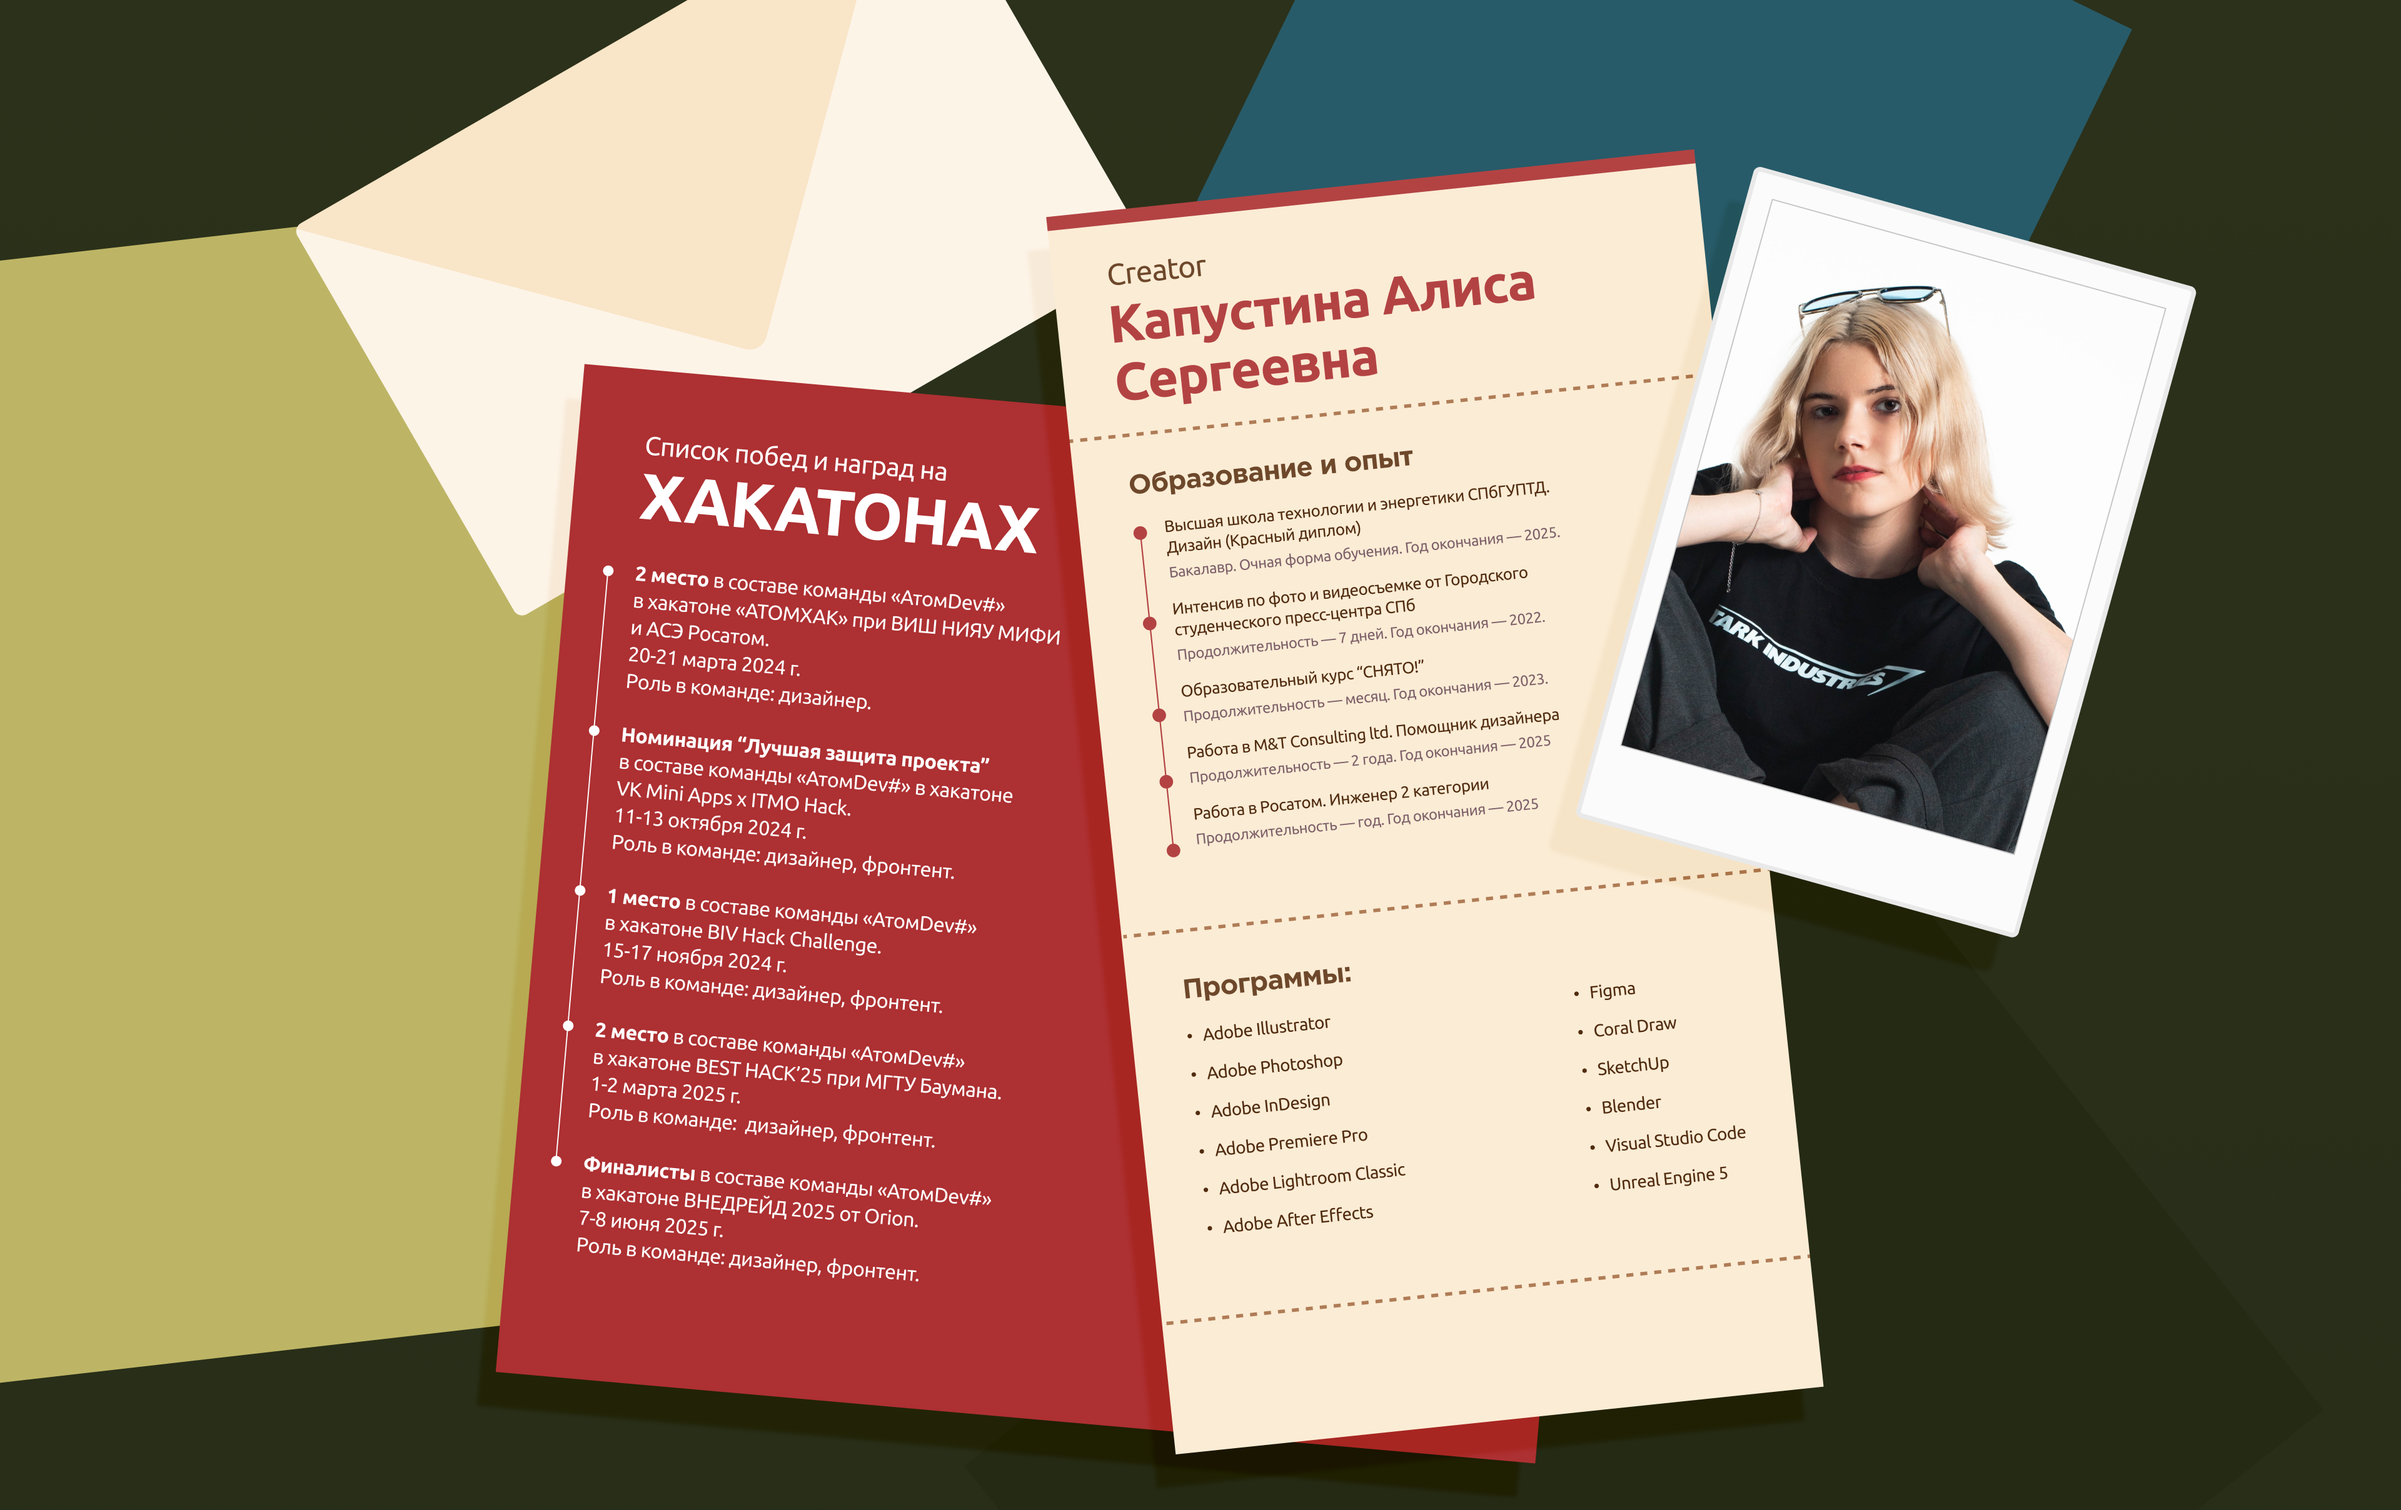
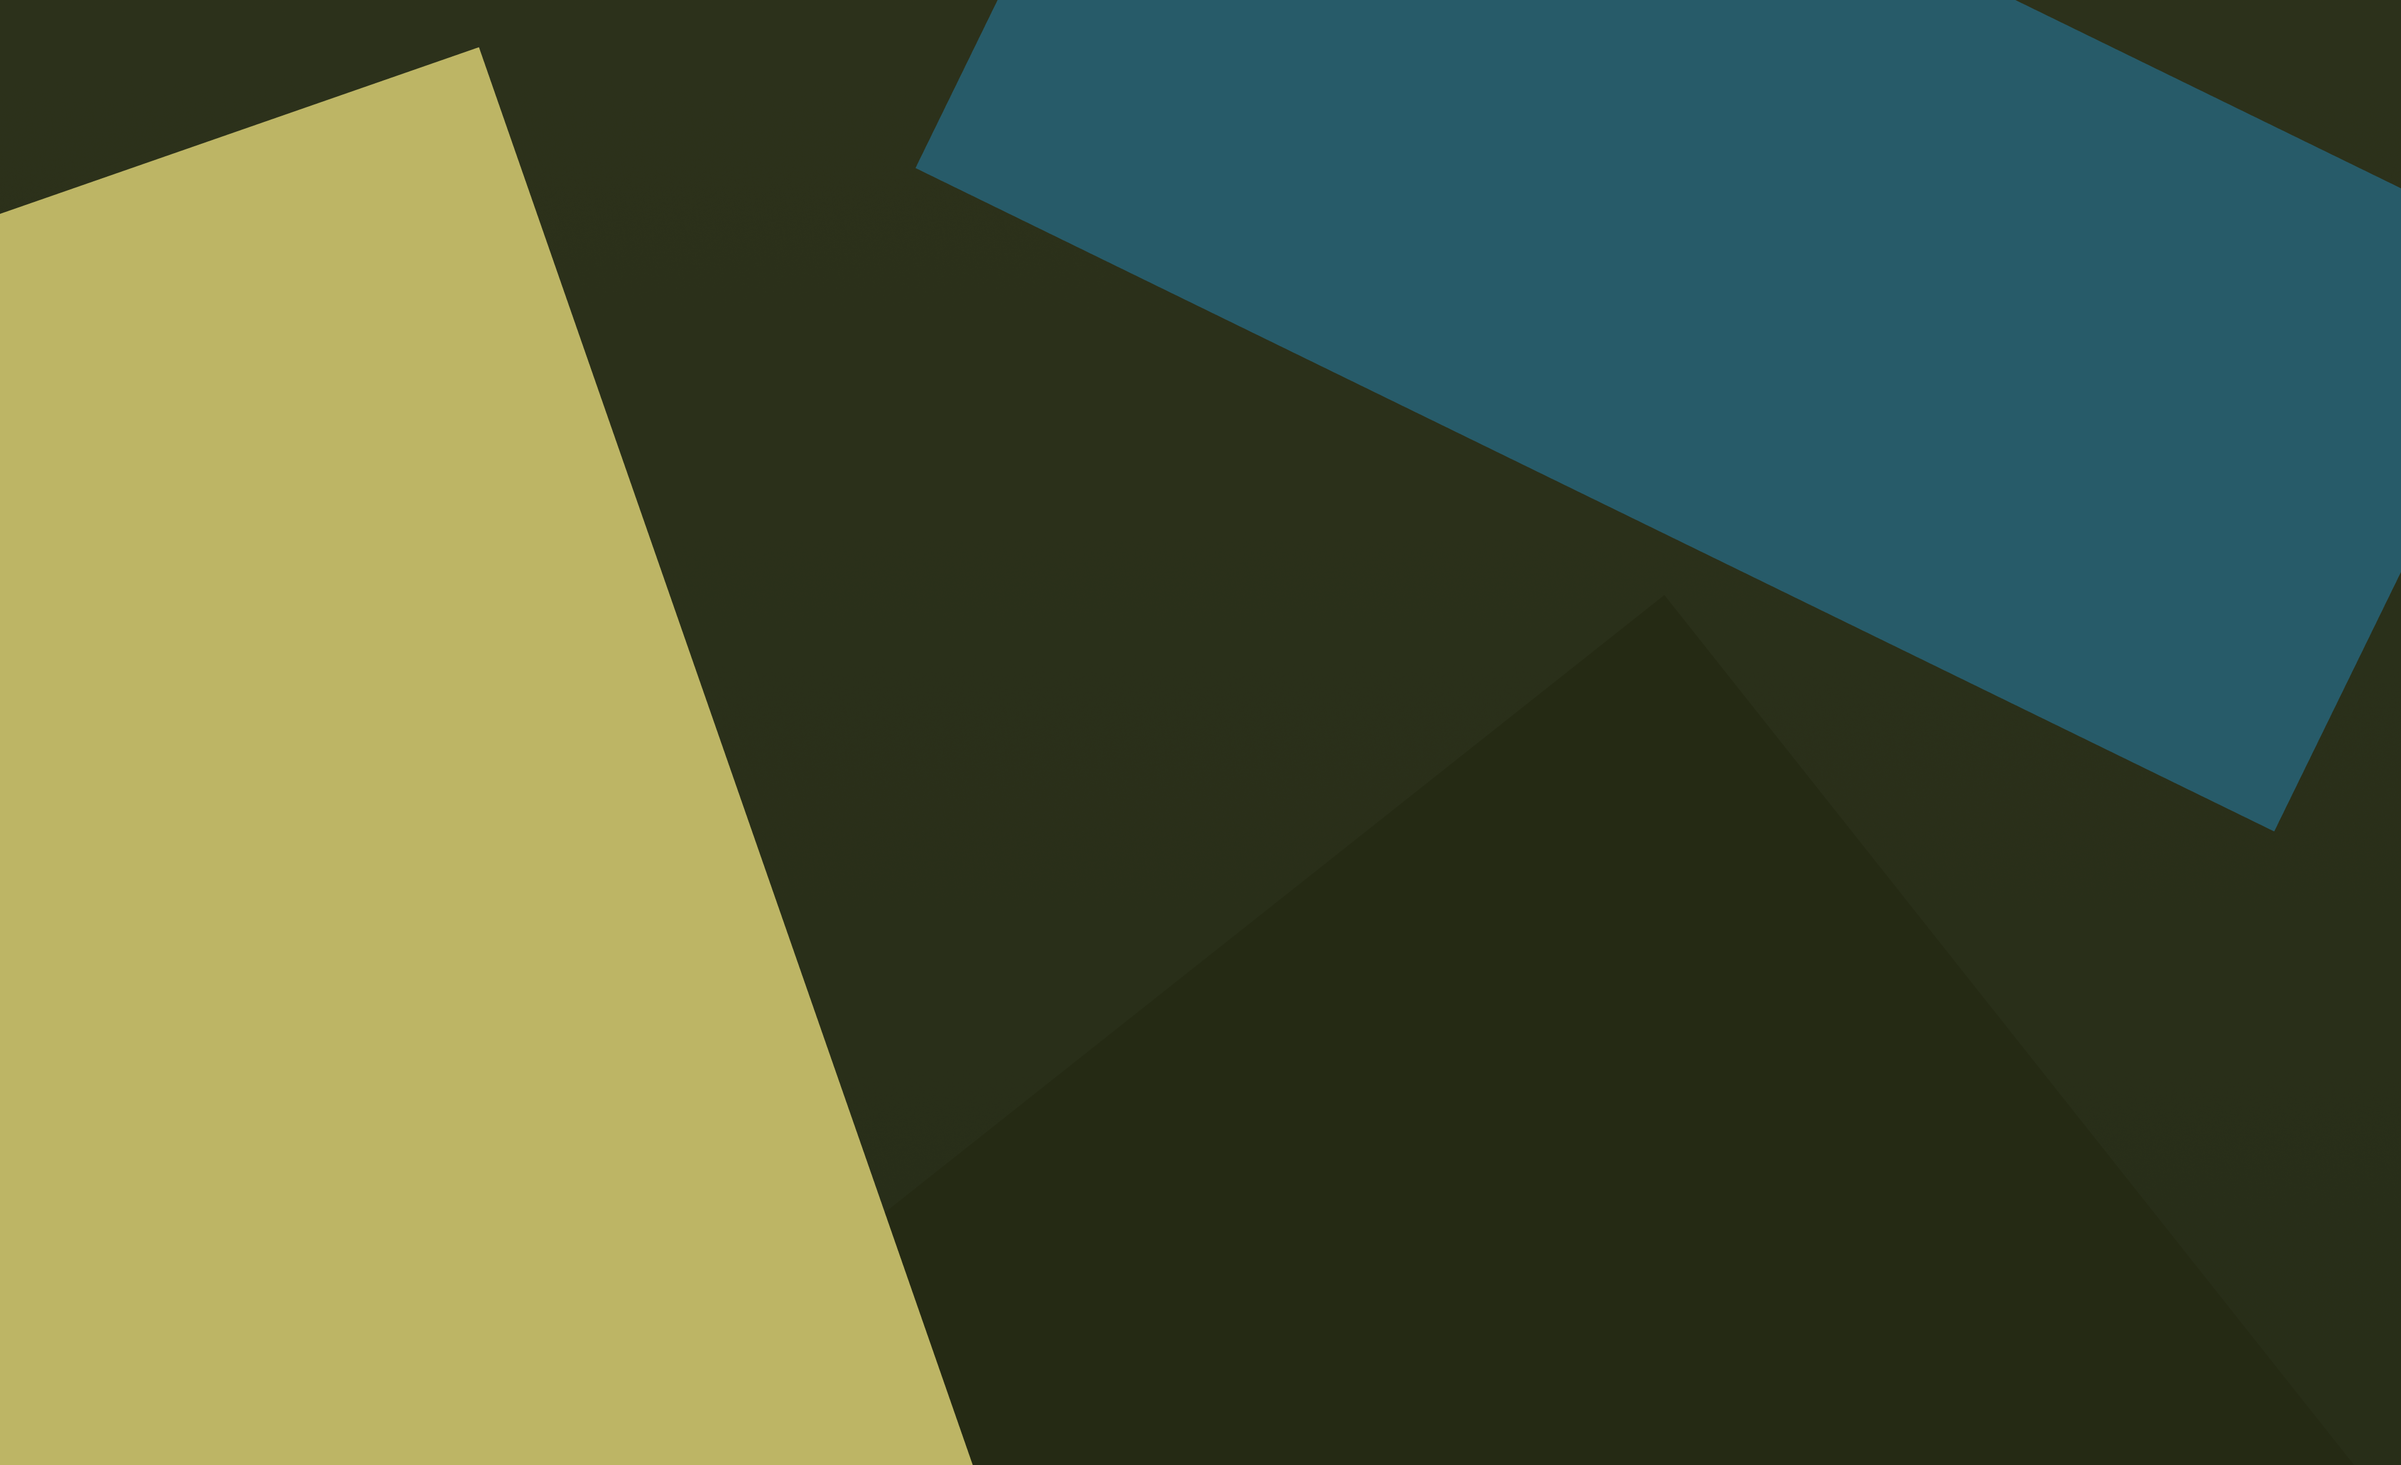
update: info

diff --git a/src/app/info/page.tsx b/src/app/info/page.tsx
@@ -3,13 +3,111 @@ import Sidebar from '@/components/Universal/Sidebar/Sidebar';
 import Text from '@/components/Universal/Text/Text';
 import '@fontsource/ubuntu';
 import  '@/app/info/info-page.scss'
+import RotatedCheck from "@/components/RotatedCheck/RotatedCheck";
 
 
 export default function InfoPage() {
 
     return (
         <div className="background-container">
-            {}
+            <img src='/images/info/mePhoto.png' alt="Card" />
+            <div style={{position: "relative", height: "100vh"}}>
+                <RotatedCheck
+                    angle={5.03}
+                    initialY={"100vh"}
+                    delay={0.2}
+                    backgroundColor="#AD3032"
+                    content={
+                        <>
+                            <h5>Список побед и наград на</h5>
+                            <h6>ХАКАТОНАХ </h6>
+                            <div className="list-block-hack">
+                                <p><b>2 место</b> в составе команды «АтомDev#» в хакатоне <br/>«АТОМХАК»
+                                    при ВИШ НИЯУ МИФИ и АСЭ Росатом.
+                                    <br/>20-21 марта 2024 г.
+                                    <br/>Роль в команде: дизайнер.</p>
+
+                                <p><b>Номинация “Лучшая защита проекта”</b>
+                                    в составе команды «АтомDev#» в хакатоне
+                                    VK Mini Apps х ITMO Hack.
+                                    <br/>11-13 октября 2024 г.
+                                    <br/>Роль в команде: дизайнер, фронтент.</p>
+
+                                <p><b>1 место</b> в составе команды «АтомDev#»
+                                    в хакатоне <br/> BIV Hack Challenge.
+                                    15-17 ноября 2024 г.
+                                    <br/>Роль в команде: дизайнер, фронтент.</p>
+
+                                <p><b>2 место</b> в составе команды «АтомDev#»
+                                    в хакатоне <br/>BEST HACK’25 при МГТУ Баумана.
+                                    1-2 марта 2025 г.
+                                    <br/>Роль в команде: дизайнер, фронтент.</p>
+
+                                <p><b>Финалисты</b> в составе команды «АтомDev#»
+                                    в хакатоне ВНЕДРЕЙД 2025 от Orion.
+                                    7-8 июня 2025 г.
+                                    <br/>Роль в команде: дизайнер, фронтент.</p>
+
+                            </div>
+                        </>
+                    }
+                    positionStyle={{top: "22%", left: "19%"}}
+                />
+
+                <RotatedCheck
+                    angle={-5.97}
+                    initialY={"120vh"}
+                    delay={0.3}
+                    backgroundColor="#FBECD5"
+                    content={
+                        <>
+                            <h2>Creator</h2>
+                            <h1>Капустина Алиса Сергеевна</h1>
+                            <h3>Образование и опыт</h3>
+                            <div className="list-block-educate">
+                                <h4>Высшая школа технологии и энергетики СПбГУПТД. Дизайн (Красный диплом)</h4>
+                                <p>Бакалавр. Очная форма обучения. Год окончания — 2025</p>
+
+                                <h4>Интенсив по фото и видеосъемке от Городского студенческого пресс-центра СПб</h4>
+                                <p>Продолжительность — 7 дней. Год окончания — 2022</p>
+
+                                <h4>Образовательный курс “СНЯТО!”</h4>
+                                <p>Продолжительность — месяц. Год окончания — 2023</p>
+
+                                <h4>Работа в M&T Consulting ltd. Помощник дизайнера</h4>
+                                <p>Продолжительность — 2 года. Год окончания — 2025</p>
+
+                                <h4>Работа в АСЭ Росатом. Инженер 2 категории</h4>
+                                <p>Продолжительность — год. Год окончания — 2025</p>
+
+                            </div>
+                            <h3>Программы </h3>
+                            <div className="grid-list">
+                                <div>
+                                    <p>Adobe Illustrator</p>
+                                    <p>Adobe Photoshop</p>
+                                    <p>Adobe InDesign</p>
+                                    <p>Adobe Premiere Pro</p>
+                                    <p>Adobe Lightroom Classic</p>
+                                    <p>Adobe After Effects</p>
+                                </div>
+
+                                <div>
+                                    <p>Figma</p>
+                                    <p>Coral Draw</p>
+                                    <p>SketchUp</p>
+                                    <p>Blender</p>
+                                    <p>Unity</p>
+                                    <p>Unreal Engine 5</p>
+
+                                </div>
+                            </div>
+                        </>
+                    }
+                    positionStyle={{top: "3%", left: "48%"}}
+                />
+            </div>
+
         </div>
     );
 }

diff --git a/src/app/info/info-page.scss b/src/app/info/info-page.scss
@@ -1,7 +1,96 @@
-.background-container { //переделать потом в код
+.background-container {
   background-image: url('/images/info/aboutMe.png');
   background-size: cover;
   background-position: center;
   background-repeat: no-repeat;
   min-height: 100vh;
+  position: fixed;
+  top: 0;
+  left: 0;
+  width: 100vw;
+  height: 100vh;
+  z-index: -1;
 }
+
+.background-container img {
+
+  top: 0;
+  right: -6%;
+  height: 80vh;
+  min-height: 80vh;
+  position: fixed;
+
+}
+
+
+.grid-list {
+  display: grid;
+  grid-template-columns: 1fr 1fr;
+  gap: 2rem;
+}
+
+.grid-list p {
+  font-family: 'Ubuntu', sans-serif;
+  font-size: 15px;
+  margin-bottom: 1.3rem;
+  color: #512C10;
+}
+
+h6 {
+  font-family: 'Ubuntu', sans-serif;
+  font-size: 45px;
+  font-weight: bold;
+  color: #fff;
+}
+
+h5 {
+  font-family: 'Ubuntu', sans-serif;
+  font-size: 22px;
+  color: #fff;
+}
+
+h3 {
+  font-family: 'Ubuntu', sans-serif;
+  font-size: 24px;
+  font-weight: bold;
+  margin-bottom: 1.5rem;
+  margin-top: 1.2rem;
+  color: #512C10;
+}
+
+h2 {
+  font-family: 'Ubuntu', sans-serif;
+  font-size: 22px;
+  color: #512C10;
+}
+
+h1 {
+  font-family: 'Ubuntu', sans-serif;
+  font-size: 45px;
+  font-weight: bold;
+  color: #B34343;
+}
+
+.list-block-educate h4 {
+  margin-top: 1.5rem;
+  font-family: 'Ubuntu', sans-serif;
+  font-size: 14px;
+  color: #512C10;
+}
+
+.list-block-educate p {
+  margin-bottom: 0.5rem;
+  font-family: 'Ubuntu', sans-serif;
+  font-size: 13px;
+  color: #7E6069;
+}
+
+.list-block-hack p {
+  margin-top: 1.5rem;
+  line-height: 1.5;
+  font-family: 'Ubuntu', sans-serif;
+  font-size: 15px;
+  color: #fff;
+}
+
+

diff --git a/src/components/RotatedCheck/RotatedCheck.tsx b/src/components/RotatedCheck/RotatedCheck.tsx
@@ -1,0 +1,53 @@
+'use client';
+
+import React, { useEffect, useState } from "react";
+import { motion } from "framer-motion";
+import "./RotatedCheck.scss";
+
+type Props = {
+    angle?: number;
+    initialY?: string | number;
+    content: React.ReactNode;
+    delay?: number;
+    positionStyle?: React.CSSProperties;
+    backgroundColor?: string;
+};
+
+export default function RotatedCheck( {
+    angle = 0,
+        initialY = "100vh",
+        content,
+        delay = 0,
+        positionStyle = {},
+       backgroundColor = "#fff",
+    }: Props) {
+
+    const [hasMounted, setHasMounted] = useState(false);
+
+    useEffect(() => {
+        setHasMounted(true);
+    }, []);
+
+    return (
+
+        <motion.div
+            initial={!hasMounted ?{ y: initialY, rotate: angle, opacity: 1 }: false}
+            animate={{ y: 0, rotate: angle, opacity: 1 }}
+            transition={{ type: "tween", ease: "easeOut", duration: 0.8, delay,
+            }}
+            style={{
+                transform: `rotate(${angle}deg)`,
+                ...positionStyle,
+            }}
+            className="rotated-container"
+        >
+            <div
+                className="check-content"
+                style={{ backgroundColor }}
+            >
+                {content}
+            </div>
+        </motion.div>
+
+    );
+}

diff --git a/src/components/RotatedCheck/RotatedCheck.scss b/src/components/RotatedCheck/RotatedCheck.scss
@@ -1,0 +1,60 @@
+.rotated-container {
+  position: absolute;
+  top: 30%;
+  left: 20%;
+  z-index: 10;
+}
+
+.check-content {
+  padding: 4.5rem;
+  height: 1200px;
+  width: 600px;
+  position: relative;
+}
+
+.check-content2 {
+  background: #FBECD5;
+  padding: 2rem;
+  height: 1200px;
+  width: 560px;
+  position: relative;
+}
+
+.check-title {
+  font-size: 1.5rem;
+  font-weight: bold;
+  margin-bottom: 1rem;
+}
+
+.check-list {
+  list-style-type: disc;
+  padding-left: 1.5rem;
+  margin-bottom: 1rem;
+}
+
+.decor {
+  position: absolute;
+  bottom: 10px;
+  right: 10px;
+  display: flex;
+  align-items: center;
+  gap: 8px;
+}
+
+.circle {
+  width: 16px;
+  height: 16px;
+  background-color: #000;
+  border-radius: 50%;
+}
+
+.line {
+  width: 30px;
+  height: 2px;
+  background-color: #000;
+}
+
+.check-image {
+  width: 100%;
+  margin-top: 1rem;
+}

diff --git a/src/components/Universal/Gallery/Gallery.module.scss b/src/components/Universal/Gallery/Gallery.module.scss
@@ -3,10 +3,13 @@
   column-count: 4;
   column-gap: 1rem;
 
+
   img {
     width: 100%;
     display: block;
     margin-bottom: 1rem;
+    content-visibility: auto;
+    contain-intrinsic-size: 300px;
 
     &:hover {
       transform: scale(1.02);

diff --git a/src/app/global-not-found.scss b/src/app/global-not-found.scss
@@ -1,6 +1,7 @@
 
 .page{
     max-width:500px;
+    padding-left: 120px;
     margin-left:auto !important;
     margin-right:auto !important;
     padding-left:20px;

diff --git a/README.md b/README.md
@@ -30,7 +30,7 @@ npm run build
 Запустить production версию приложения можно через команду:
 
 ```bash
-npm run start
+npm npm install framer-motion@11
 ```
 
 Добавить новые зависимости можно через использование следующей команды
